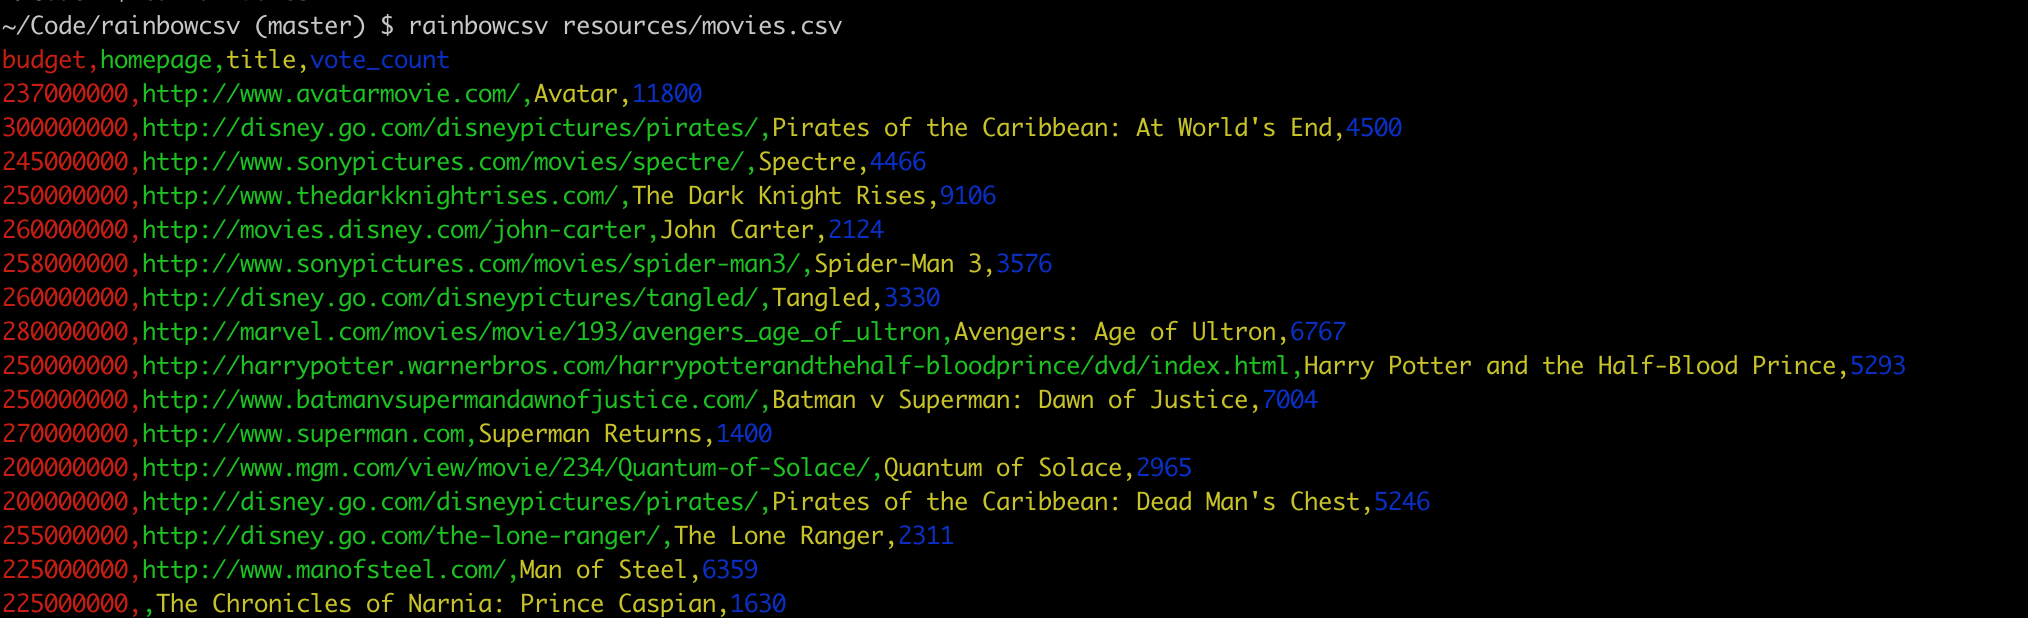
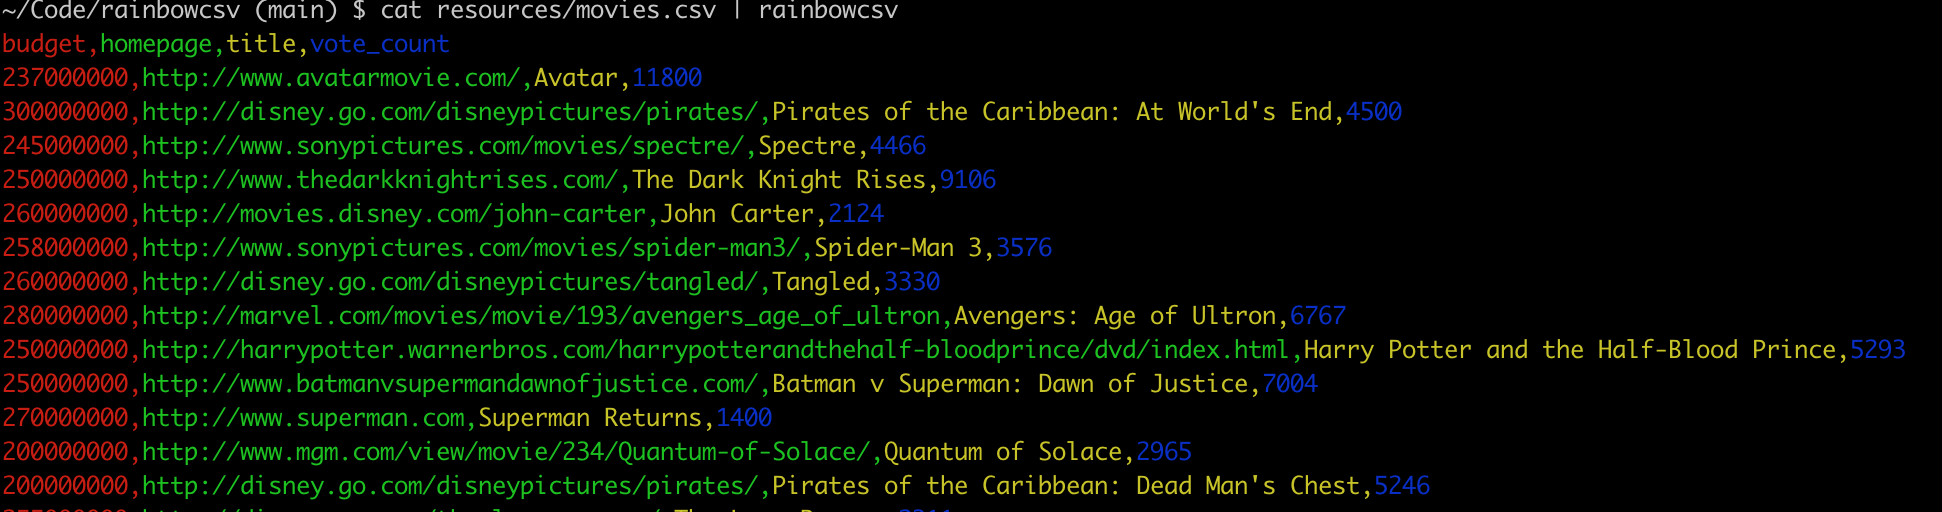
Rename pretty to table, increment to 1.0.2

Changed region(s): [[0.0, 0.0, 0.9887, 1.0]]

diff --git a/tests/test_main.py b/tests/test_main.py
@@ -40,9 +40,9 @@ def test_run_contents(f, capsys):
     ]
 
 
-def test_pretty(f, capsys):
+def test_table(f, capsys):
     f.write_text('a,b,c\n1,2,3')
-    run(str(f), pretty=True)
+    run(str(f), table=True)
 
     lines = out_lines(capsys)
     assert len(lines) == 3  # adds tilde line
@@ -50,9 +50,9 @@ def test_pretty(f, capsys):
         assert len(line.split('|')) == 3 + 2
 
 
-def test_pretty_contents(f, capsys):
+def test_table_contents(f, capsys):
     f.write_text('a,b,c\n1,2,3')
-    run(str(f), pretty=True)
+    run(str(f), table=True)
 
     assert out_lines(capsys) == [
         f'| {C[0]}a{RESET} | {C[1]}b{RESET} | {C[2]}c{RESET} |',
@@ -61,9 +61,9 @@ def test_pretty_contents(f, capsys):
     ]
 
 
-def test_pretty_contents_on_different_col_lengths(f, capsys):
+def test_table_contents_on_different_col_lengths(f, capsys):
     f.write_text('a,b,ccc\n11,2,3')
-    run(str(f), pretty=True)
+    run(str(f), table=True)
 
     assert out_lines(capsys) == [
         # note the spaces after each header
@@ -77,7 +77,7 @@ def test_pretty_contents_on_different_col_lengths(f, capsys):
 
 def test_using_incorrect_delim_on_non_comma_out(f, capsys):
     f.write_text('a&b&c\n1&2&3')
-    run(str(f), pretty=True)
+    run(str(f), table=True)
 
     for line in out_lines(capsys):
         assert len(line.split('|')) == 1 + 2
@@ -85,7 +85,7 @@ def test_using_incorrect_delim_on_non_comma_out(f, capsys):
 
 def test_using_proper_delim_on_non_comma_out(f, capsys):
     f.write_text('a&b&c\n1&2&3')
-    run(str(f), pretty=True, delimiter='&')
+    run(str(f), table=True, delimiter='&')
 
     for line in out_lines(capsys):
         assert len(line.split('|')) == 3 + 2
@@ -93,7 +93,7 @@ def test_using_proper_delim_on_non_comma_out(f, capsys):
 
 def test_long_entry_is_truncated(f, capsys):
     f.write_text('entry\na really really really long entry')
-    run(str(f), pretty=True, max_width=10)
+    run(str(f), table=True, max_width=10)
 
     assert out_lines(capsys) == [
         f'| {C[0]}entry{RESET}      |',
@@ -105,7 +105,7 @@ def test_long_entry_is_truncated(f, capsys):
 def test_long_entry_is_not_truncated_when_no_max(f, capsys):
     entry = 'a really really really long entry'
     f.write_text(f'entry\n{entry}')
-    run(str(f), pretty=True)
+    run(str(f), table=True)
 
     assert out_lines(capsys) == [
         f'| {C[0]}entry{RESET}                             |',
@@ -114,7 +114,7 @@ def test_long_entry_is_not_truncated_when_no_max(f, capsys):
     ]
 
 
-def test_long_entry_is_truncated_when_not_pretty(f, capsys):
+def test_long_entry_is_truncated_when_not_table(f, capsys):
     f.write_text('entry\na really really really long entry')
     run(str(f), max_width=10)
 

diff --git a/rainbowcsv/__main__.py b/rainbowcsv/__main__.py
@@ -30,12 +30,12 @@ class CsvDetails:
         self,
         path: str,
         delimiter: str,
-        pretty: bool,
+        table: bool,
         max_width: Optional[int],
     ):
         self.path = Path(path)
         self.delimiter = delimiter
-        self.pretty = pretty
+        self.table = table
         self.max_width = max_width
 
     @property  # type: ignore
@@ -54,7 +54,7 @@ class CsvDetails:
         return widths
 
 
-def pretty_row(
+def table_row(
     writer: Any,
     row: List[str],
     details: CsvDetails,
@@ -68,7 +68,7 @@ def pretty_row(
     writer.writerow([''] + row + [''])
 
 
-def pretty_tildes(writer: Any, details: CsvDetails) -> None:
+def table_tildes(writer: Any, details: CsvDetails) -> None:
     row = [f" {'~' * width} " for width in details.col_widths.values()]
 
     # insert '|' at start and end
@@ -76,7 +76,7 @@ def pretty_tildes(writer: Any, details: CsvDetails) -> None:
 
 
 def rainbow_csv(details: CsvDetails) -> None:
-    out_delim = '|' if details.pretty else details.delimiter
+    out_delim = '|' if details.table else details.delimiter
 
     with open(details.path) as f:
         reader = csv.reader(f, delimiter=details.delimiter)
@@ -95,10 +95,10 @@ def rainbow_csv(details: CsvDetails) -> None:
                     col += '…'  # special one-char ellipsis
                 row[col_no] = col
 
-            if details.pretty:
-                pretty_row(writer, row, details)
+            if details.table:
+                table_row(writer, row, details)
                 if row_no == 0:
-                    pretty_tildes(writer, details)
+                    table_tildes(writer, details)
             else:
                 writer.writerow(row)
 
@@ -109,7 +109,7 @@ def rainbow_csv(details: CsvDetails) -> None:
 def run(
     file: str = '',
     delimiter: str = ',',
-    pretty: bool = False,
+    table: bool = False,
     max_width: Optional[int] = None,
 ) -> None:
     if not file:
@@ -117,14 +117,17 @@ def run(
         file = tmp.name
         Path(file).write_text(sys.stdin.read())
 
-    details = CsvDetails(file, delimiter, pretty, max_width)
+    details = CsvDetails(file, delimiter, table, max_width)
     rainbow_csv(details)
 
 
 def main() -> None:
     try:
         fire.Fire(run)
-    except (BrokenPipeError, OSError):
+    except FileNotFoundError:
+        sys.tracebacklimit = 0  # keep error easy-to-read
+        raise
+    except (BrokenPipeError, OSError) as e:
         pass
 
 

diff --git a/README.md b/README.md
@@ -31,10 +31,10 @@ or use with pipes
 
 [csvkit](https://csvkit.readthedocs.io/en/latest/) is a lovely library, and we recommend using this in conjunction with it.
 
-The `csvlook` command doesn't play well with rainbow csv, because it doesn't ignore color-changing characters. That's why the `--pretty` (`-p` for short) option is available in `rainbowcsv`, it creates a similar-looking table.
+The `csvlook` command doesn't play well with rainbow csv, because it doesn't ignore color-changing characters. That's why the `--table` (`-t` for short) option is available in `rainbowcsv`, it creates a similar-looking table.
 
-`curl https://raw.githubusercontent.com/dannysepler/rainbowcsv/main/resources/movies.csv | rainbowcsv --pretty`
+`curl https://raw.githubusercontent.com/dannysepler/rainbowcsv/main/resources/movies.csv | rainbowcsv --table`
 
-![Simple rainbowcsv output](https://raw.githubusercontent.com/dannysepler/rainbowcsv/main/resources/pretty_screenshot.png)
+![Simple rainbowcsv output](https://raw.githubusercontent.com/dannysepler/rainbowcsv/main/resources/table_screenshot.png)
 
 You can also pipe to `less` if you display raw control characters, via `less -r` or `less -R`
